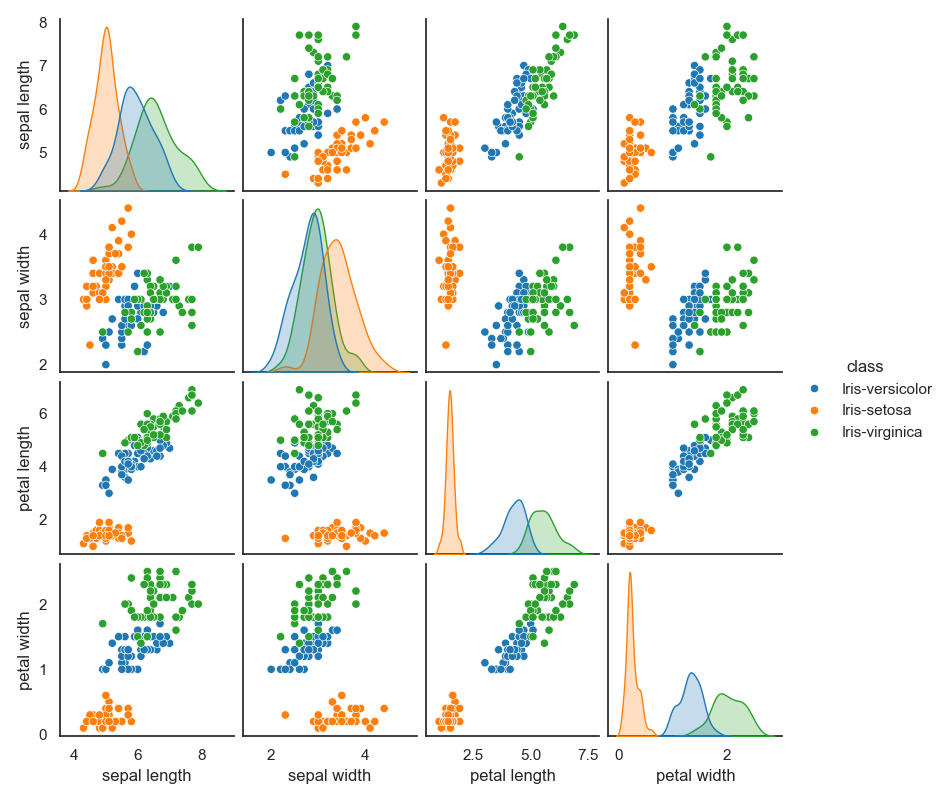
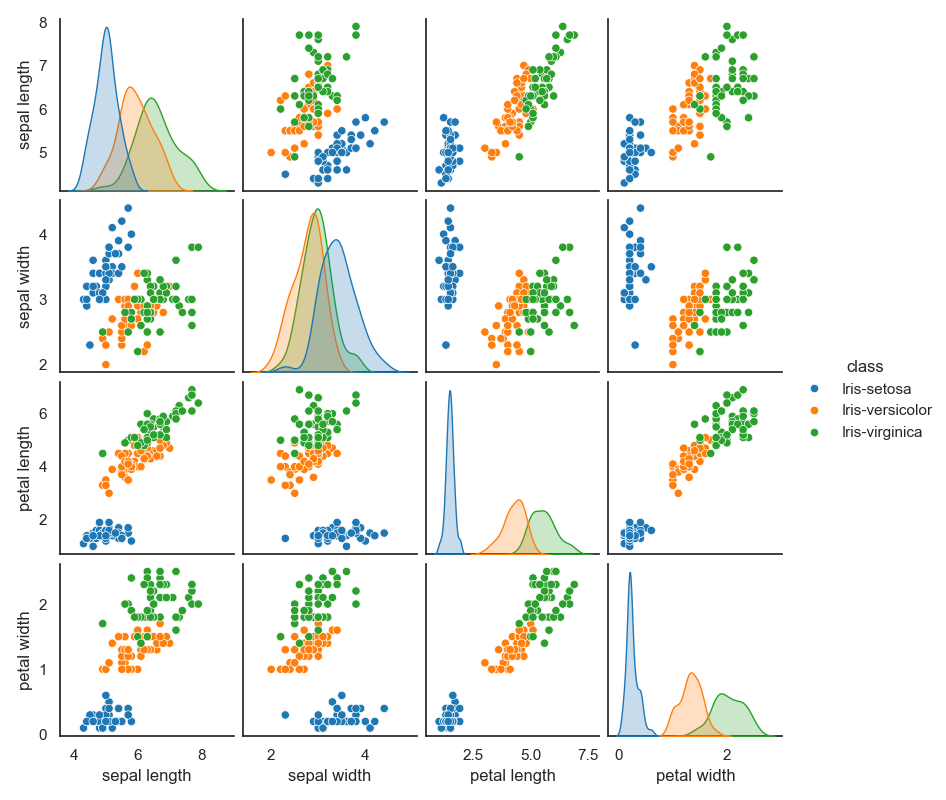
post-simu.

diff --git a/simpleplot.py b/simpleplot.py
@@ -7,9 +7,6 @@ sns.set(style="white", color_codes=True)
 # fetch dataset
 iris = fetch_ucirepo(id=53)
 originaldf = iris.data.original
-temp = originaldf.iloc[0]
-originaldf.iloc[0] = originaldf.iloc[55]
-originaldf.iloc[55] = temp
 
 sns.pairplot(originaldf, hue='class', height=2, palette=sns.color_palette("tab10"))
 plt.show()
